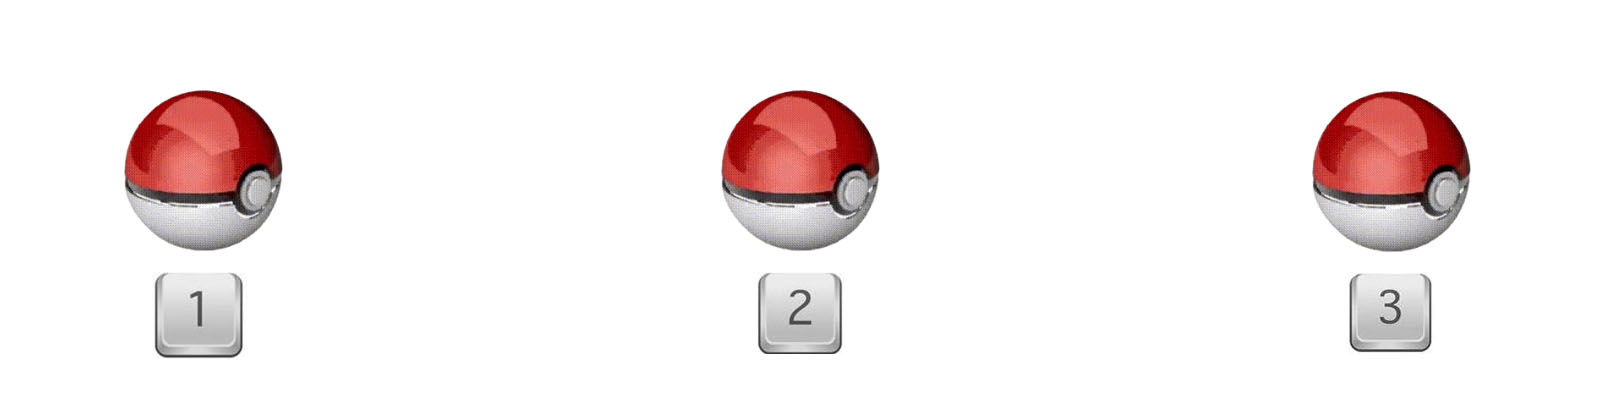
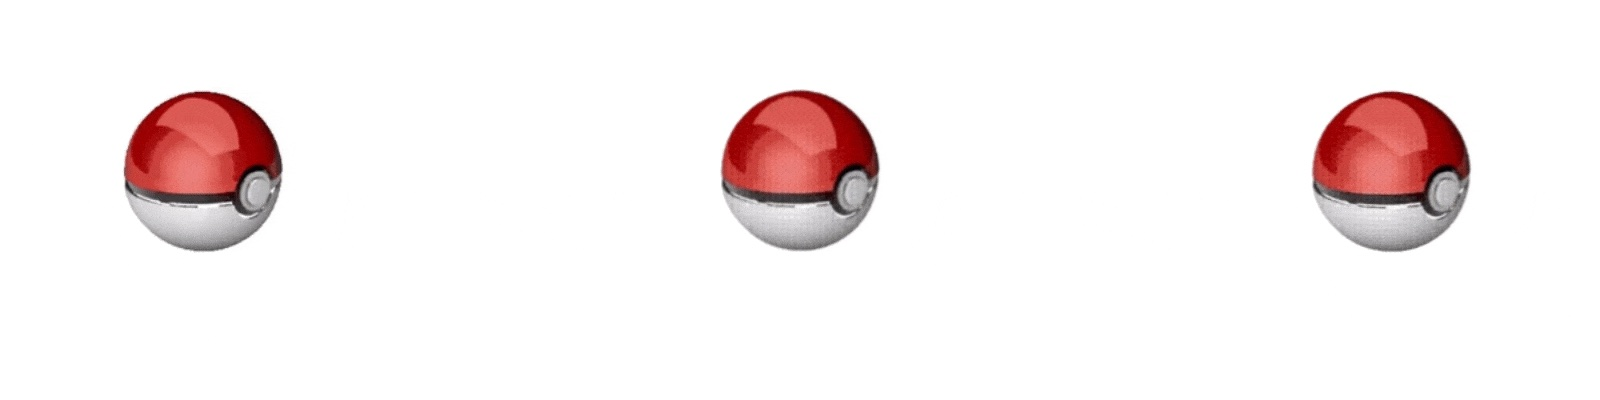
final changes to instructions with animations

diff --git a/experiment/js/instructions.js b/experiment/js/instructions.js
@@ -1,0 +1,177 @@
+function instructions(timeline){
+
+var intro0 = {
+    type: "instructions",
+    pages: [
+        "<p>Hello! Thank you very much for participating in our study!</p><br></br>" +
+        "<p>We are researchers who usually study babies. :) </p>" +
+        "<p>In particular, we are interested in knowing what makes things interesting or boring to babies. </p>" +
+        "<p> So we designed some cute stimuli, which we are hoping to show to babies soon! </p>" +
+        "<p> But first, to get an initial idea, we are trying our experiment with adults first (i.e. you!). </p>" +
+        "<p> So we really appreciate your help! </p>"
+        ,
+        "<p>Since this task was designed for babies, it's going to be really easy!</p>" +
+        "<p>You will repeatedly see three balls on the screen, like these ones:</p>" +
+        "<p><img src=images/stimuli/pokeballs_closed.jpg width ='800' height = '200' ></p>"
+      ],
+        data: {stimulus_type: 'instructions'},
+        show_clickable_nav: true
+      }
+
+
+
+        var intro1 = {
+          type: 'sequential-stimulus-presentation',
+          poke_ball_animation: function(){
+        var html = "<p><img src='images/stimuli/pokeball_3.gif" + "?a=" + Math.random() + " width ='800' height = '200'></p>" +
+                  "<p> On every trial, one of the balls will open and a creature will pop out. </p>" +
+                  "<p> To continue, <b> press the down arrow-key </b> on your keyboard. </p>" +
+                  "<p> You can try it now! </p>"
+
+         console.log(html)
+         return html
+       },
+          stimuli_animation: function(){
+              var html = "<p><img src='images/stimuli/instructions_example_spore1.gif' width ='200' height = '200' style='float:right'></p>"
+              return html
+          },
+          two_stimuli_interval: 900,
+          key_response: [40],
+          minimum_viewing_duration: 900, // daffner2000's info was 600, changed to 200
+          response_ends_trial: true,
+        }
+
+
+        var intro2 = {
+          type: 'sequential-stimulus-presentation',
+          poke_ball_animation: function(){
+        var html = "<p><img src='images/stimuli/pokeball_2.gif" + "?a=" + Math.random() + " width ='800' height = '200'></p>" +
+                  "<p> Try again! Press the down arrow key when you've had enough of this little guy. </p>"
+
+         console.log(html)
+         return html
+       },
+          stimuli_animation: function(){
+              var html = "<p><img src='images/stimuli/instructions_example_spore2.gif' width ='200' height = '200' style='float:none'></p>"
+              return html
+          },
+          two_stimuli_interval: 900,
+          key_response: [40],
+          minimum_viewing_duration: 900, // daffner2000's info was 600, changed to 200
+          response_ends_trial: true,
+        }
+
+
+        var intro3 = {
+            type: "instructions",
+            pages: [
+                "<p> Pretty simple, huh? That means that the task is entirely self-paced, </p>" +
+                "<p> and you can look at each creature for as long as you like. </p>"],
+                data: {stimulus_type: 'instructions'},
+                show_clickable_nav: true}
+
+        // enter preferences test here
+        var intro4 = {
+          type: 'html-keyboard-response',
+          stimulus: '<img src=images/stimuli/pokeballs_pref.jpg width ="800" height = "200" style="padding-top: 33%">',
+          prompt: "<p> Every couple of trials, you will have a chance to open one of the three balls yourself! </p>" +
+          "<p> You can open one of the balls that have already opened to see the same creature again </p>" +
+          "<p> or you can select a ball that hasn't opened yet and be surprised! </p>" +
+          "<p> You can choose which ball you'd like to open by <b> pressing the corresponding number key </b> on your keyboard! </p>" ,
+          choices: [49, 50, 51, 97, 98, 99],
+          data: {stimulus_type: 'instructions'},
+          on_finish: function(data){
+            if (data.key_press ==  49 || data.key_press == 97) {
+              data.ball_pref = 1
+              data.location = 'left'
+            }
+            else if (data.key_press ==  50 || data.key_press == 98){
+              data.ball_pref = 2
+              data.location = 'middle'
+            }
+            else if (data.key_press ==  51 || data.key_press == 99) {
+              data.ball_pref = 3
+              data.location = 'right'
+
+            }
+          }
+        }
+
+        var intro5 = {
+          type: 'sequential-stimulus-presentation',
+          poke_ball_animation: function(){
+        var html = "<p><img src='images/stimuli/pokeball_" + jsPsych.data.get().last(1).values()[0].ball_pref + ".gif" + "?a=" + Math.random() + " width ='800' height = '200'></p>" +
+        "<p> Again, press the down arrow to continue. </p>"
+         console.log(html)
+         return html
+       },
+          stimuli_animation: function(){
+            example_stim_array = ['images/stimuli/instructions_example_spore0.gif', 'images/stimuli/instructions_example_spore2.gif', 'images/stimuli/instructions_example_spore1.gif']
+              var html = "<p><img src='" + example_stim_array[jsPsych.data.get().last(1).values()[0].ball_pref - 1] +
+              "' width ='200' height = '200' style='float:" + jsPsych.data.get().last(1).values()[0].location + "'></p>"
+              return html
+          },
+          two_stimuli_interval: 900,
+          key_response: [40],
+          minimum_viewing_duration: 900, // daffner2000's info was 600, changed to 200
+          data: {block_number: block_index, stimulus_type: 'pref_reveal'},
+          response_ends_trial: true,
+        }
+
+        var intro6 = {
+            type: "instructions",
+          pages: [          "<p> After you were presented with the creature in the ball you chose, </p>" +
+                            "<p> the balls will be populated with new creatures, and the whole thing starts again! </p>" +
+                            "<p> That means, new creatures will pop out, you can again look at them for as long as you like, </p>" +
+                            "<p> and move to the next trial by pressing the down arrow. </p>",
+                            "<p> We hope you enjoy our baby stimuli! </p>" +
+                            "<p> The task should take no longer than 10 minutes, </p>" +
+                            "<p> after which we will ask you some questions about the stimuli for 2-3 minutes, </p>" +
+                            "<p> and then you'll be all done! </p>",
+                            "<p> Many thanks again for your participation. :) </p> ",
+                            "<p> <b> Press the arrow to begin. </b> </p> <br></br>",
+            ],
+                data: {stimulus_type: 'instructions'},
+                show_clickable_nav: true}
+
+
+        /*        ,
+                "<p>Your task is to simply look at the creature, </p>" +
+                "<p>and to press the down arrow whenever you are ready to proceed to the next trial. </p>" +
+                "<p> You can try now! </p>"
+
+                ,
+                ""
+                ,
+                "<p> Every couple of trials, you will have a chance to open one of the three balls yourself!" +
+                "<p> You can open one of the balls that have already opened to see the same creature again </p>" +
+                "<p> or you can select a ball that hasn't opened yet and be surprised! </p>"
+                ,
+                "<p> After you chose which ball to open, the creature in the ball will pop out." +
+
+                ,
+                "<p> We hope you enjoy our baby stimuli!" +
+                "<p> The task should take no longer than 10 minutes, </p>" +
+                "<p> after which we will ask you some questions about the stimuli for 2-3 minutes, </p>" +
+                "<p> and then you'll be all done! </p>",
+                "<p> Many thanks again for your participation. :) </p> ",
+                "<p> Press the arrow to begin. </p> <br></br>",
+
+
+
+              ],
+
+
+        } */
+
+        timeline.push(intro0)
+        timeline.push(intro1)
+        timeline.push(intro2)
+        timeline.push(intro3)
+        timeline.push(intro4)
+        timeline.push(intro5)
+        timeline.push(intro6)
+
+
+return timeline
+}

diff --git a/experiment/experiment.html b/experiment/experiment.html
@@ -13,6 +13,7 @@
 <script src = "js/jspsych-multi-stim-multi-response.js"></script>
   <script src="js/jspsych-task-instructions.js"></script>
   <script src="js/jspsych-instructions.js"></script>
+  <script src="js/instructions.js"></script>
   <script src= "js/jspsych-survey-text.js"></script>
   <script src= "js/jspsych-survey-likert.js"></script>
     <script src="js/jspsych-html-slider-response.js"></script>
@@ -36,11 +37,6 @@
     var subject_id = 'SS' + timenum;
     var survey_code = 'SS' + timenum
     jsPsych.data.addProperties({ subject: subject_id });
-
-
-    var timeline = []
-
-
 
 // Stimuli setup
 TEST_RUN = 1 //test run with smaller number of species etc.
@@ -87,58 +83,12 @@ console.log(all_blocks_information)
 
 
 
-var intro = {
-    type: "instructions",
-    pages: [
-        "<p>Hello! Thank you very much for participating in our study!</p><br></br>" +
-        "<p>We are researchers who usually study babies. :) </p>" +
-        "<p>In particular, we are interested in knowing what makes things interesting or boring to babies. </p>" +
-        "<p> So we designed some cute stimuli, which we are hoping to show to babies soon! </p>" +
-        "<p> But first, to get an initial idea, we are trying our experiment with adults first (i.e. you!). </p>" +
-        "<p> So we really appreciate your help! </p>"
-        ,
-        "<p>Since this task was designed for babies, it's going to be really easy!</p>" +
-        "<p>You will repeatedly see three balls on the screen."
-        ,
-        "<p> On every trial, one of the balls will open and a creature will pop out. </p>"
-        ,
-        "<p>Your task is to simply look at the creature, </p>" +
-        "<p>and to press the down arrow whenever you are ready to proceed to the next trial </p>"
-        ,
-        "<p> That means that the task is entirely self-paced," +
-        "and you can look at each creature for as long as you like. </p>"
-        ,
-        "<p> Every couple of trials, you will have a chance to open one of the three balls yourself!" +
-        "<p> You can open one of the balls that have already opened to see the same creature again </p>" +
-        "<p> or you can select a ball that hasn't opened yet and be surprised! </p>"
-        ,
-        "<p> After you chose which ball to open, the creature in the ball will pop out." +
-        "<p> Then, the balls will be populated with new creatures, </p>" +
-        "<p> so new creatures will pop out, and you can again look at them for as long as you like, </p>" +
-        "<p> and move to the next trial by pressing the down arrow. </p>"
-        ,
-        "<p> We hope you enjoy our baby stimuli!" +
-        "<p> The task should take no longer than 10 minutes, </p>" +
-        "<p> after which we will ask you some questions about the stimuli for 2-3 minutes, </p>" +
-        "<p> and then you'll be all done! </p>",
-        "<p> Many thanks again for your participation. :) </p> ",
-        "<p> Press the arrow to begin. </p> <br></br>",
-
-
-
-      ],
-
-    data: {stimulus_type: 'instructions'},
-    show_clickable_nav: true
-}
+// initialize timeline
+var timeline = []
 
 if (SHOW_INTRO) {
-  timeline.push(intro)
+  timeline = instructions(timeline)
 }
-
-
-
-
 
 // need to loop through an outer loop that has all the blocks
 // each block is a timeline variable array
@@ -195,7 +145,7 @@ for (var block_index = 0; block_index < all_blocks_information.length; block_ind
       // enter preferences test here
       var preference_question = {
         type: 'html-keyboard-response',
-        stimulus: '<img src=images/stimuli/pokeballs_closed.jpg width ="800" height = "200" style="padding-top: 33%">',
+        stimulus: '<img src=images/stimuli/pokeballs_pref.jpg width ="800" height = "200" style="padding-top: 33%">',
         prompt: "<p> Which ball would you like to open? </p>",
         choices: [49, 50, 51, 97, 98, 99],
         data: {block_number: block_index, stimulus_type: 'pref_question'},
